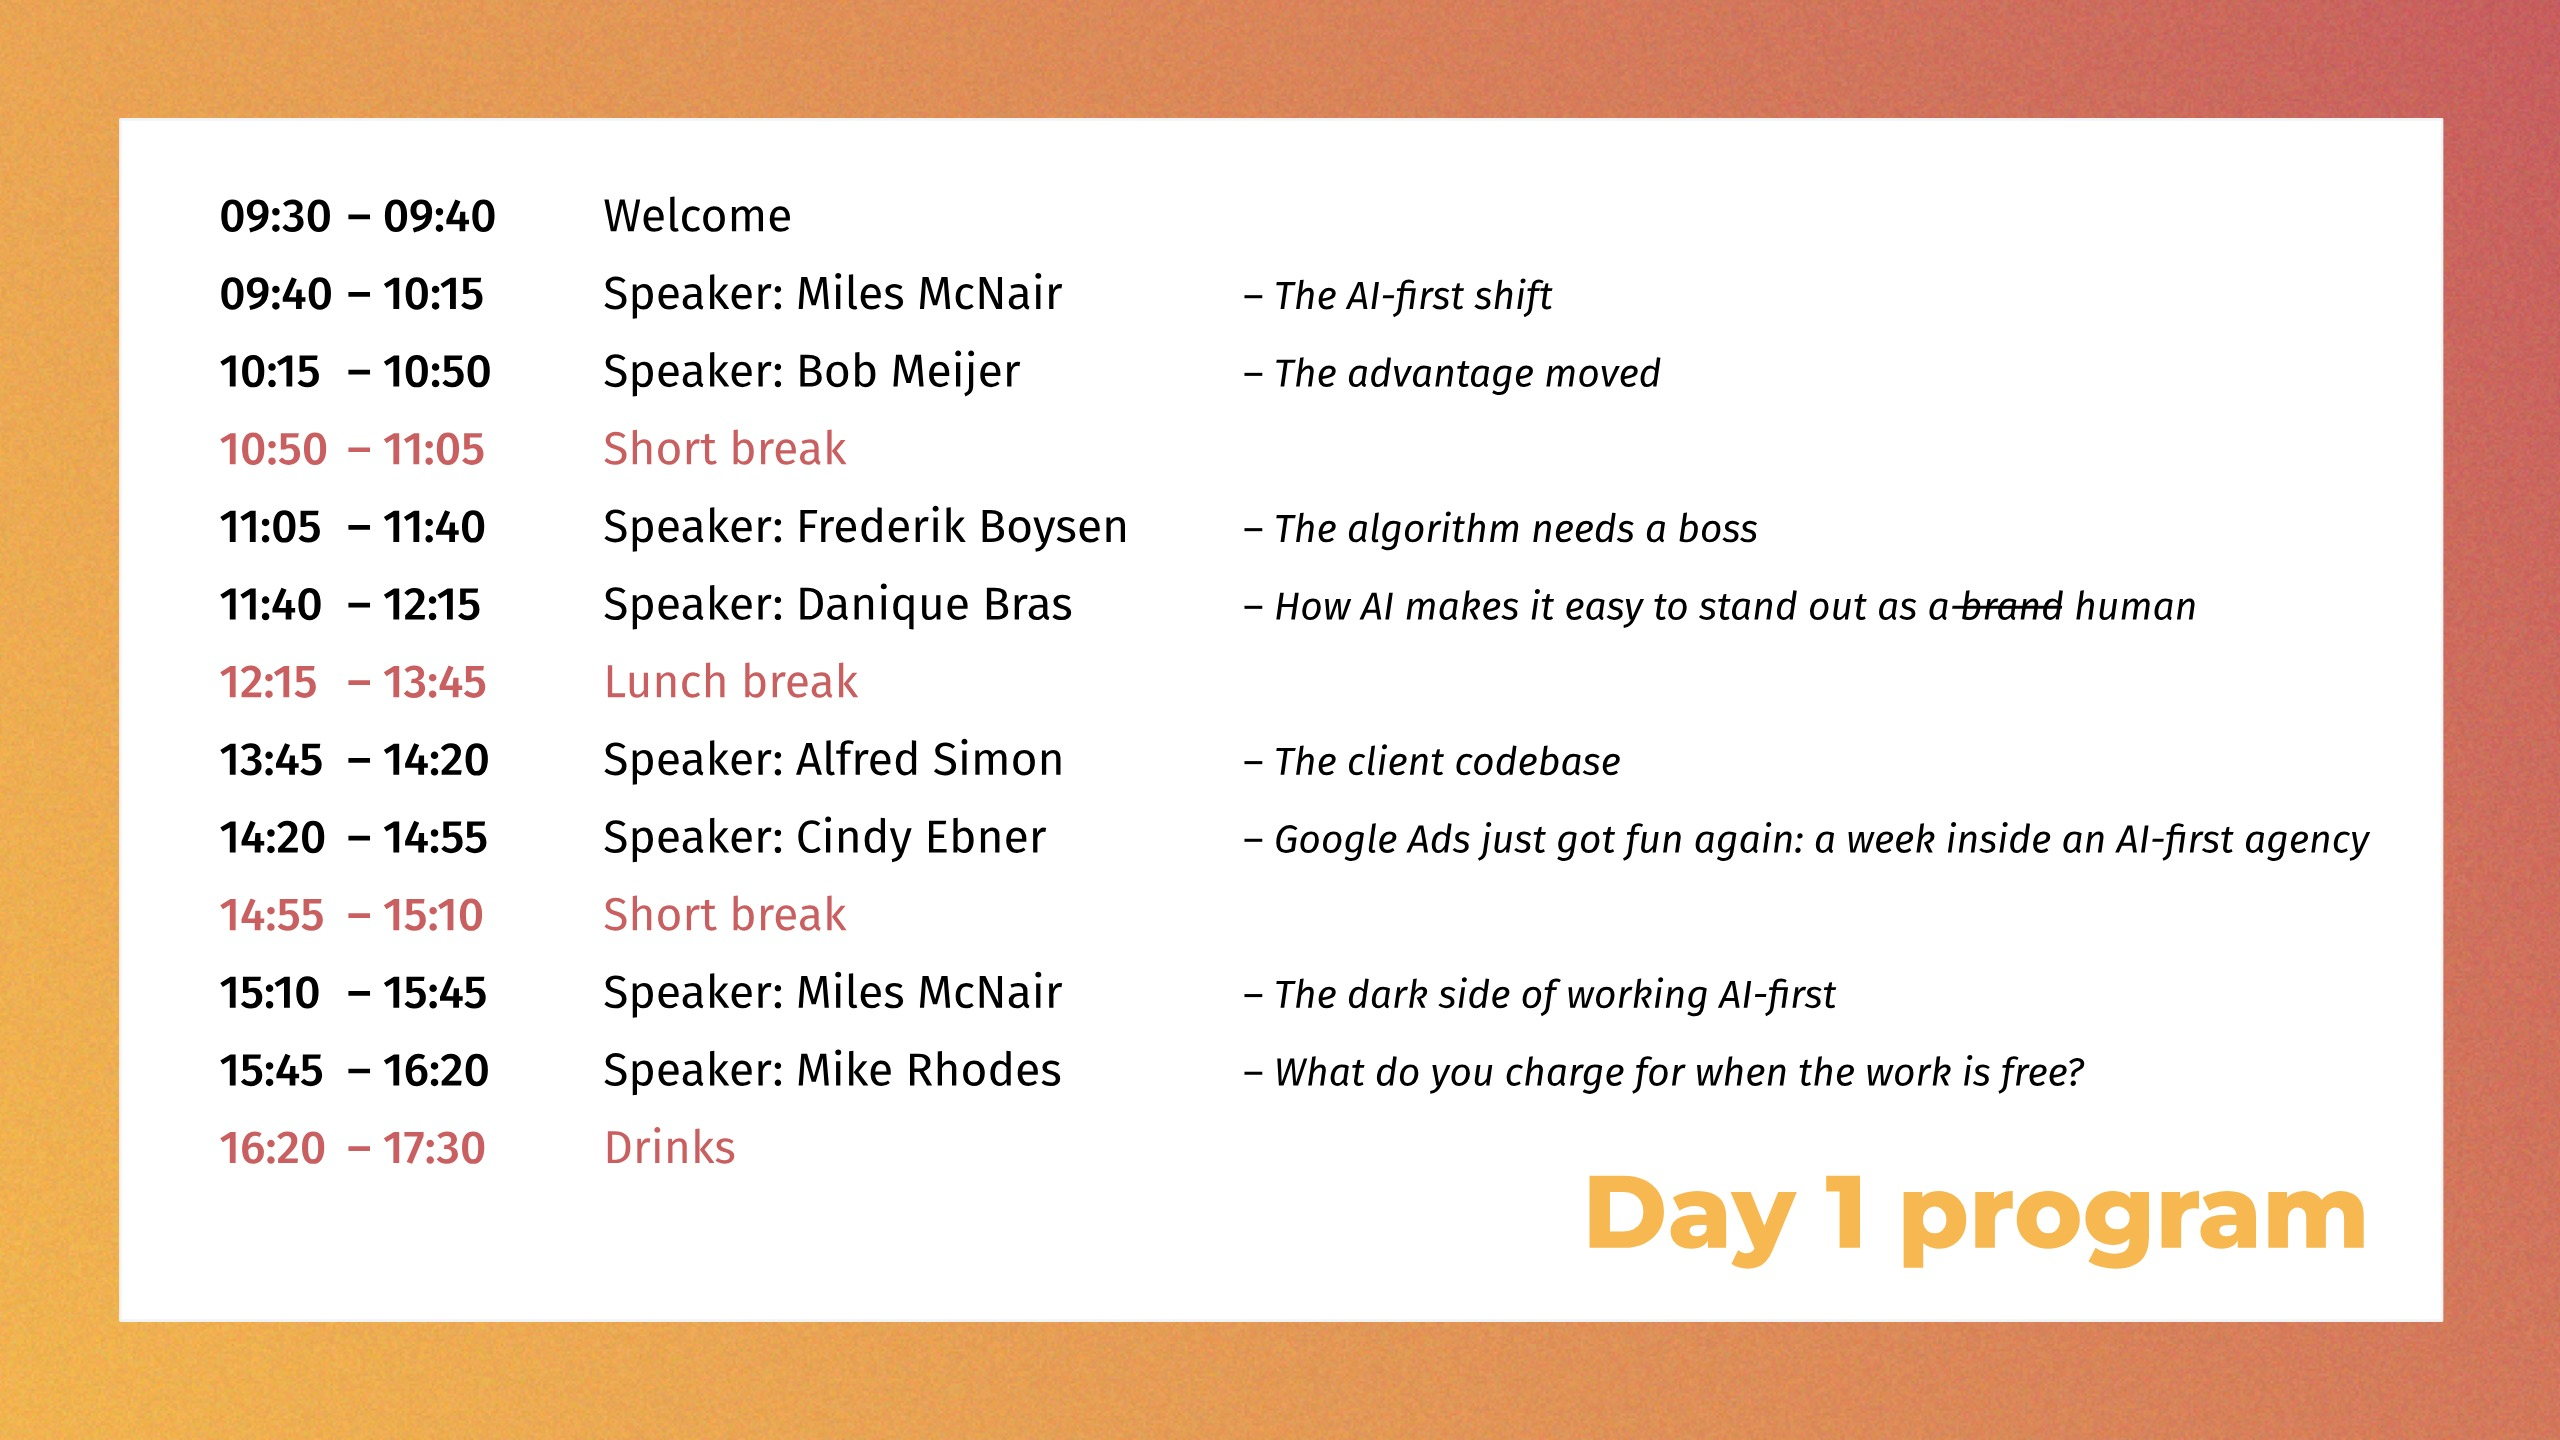
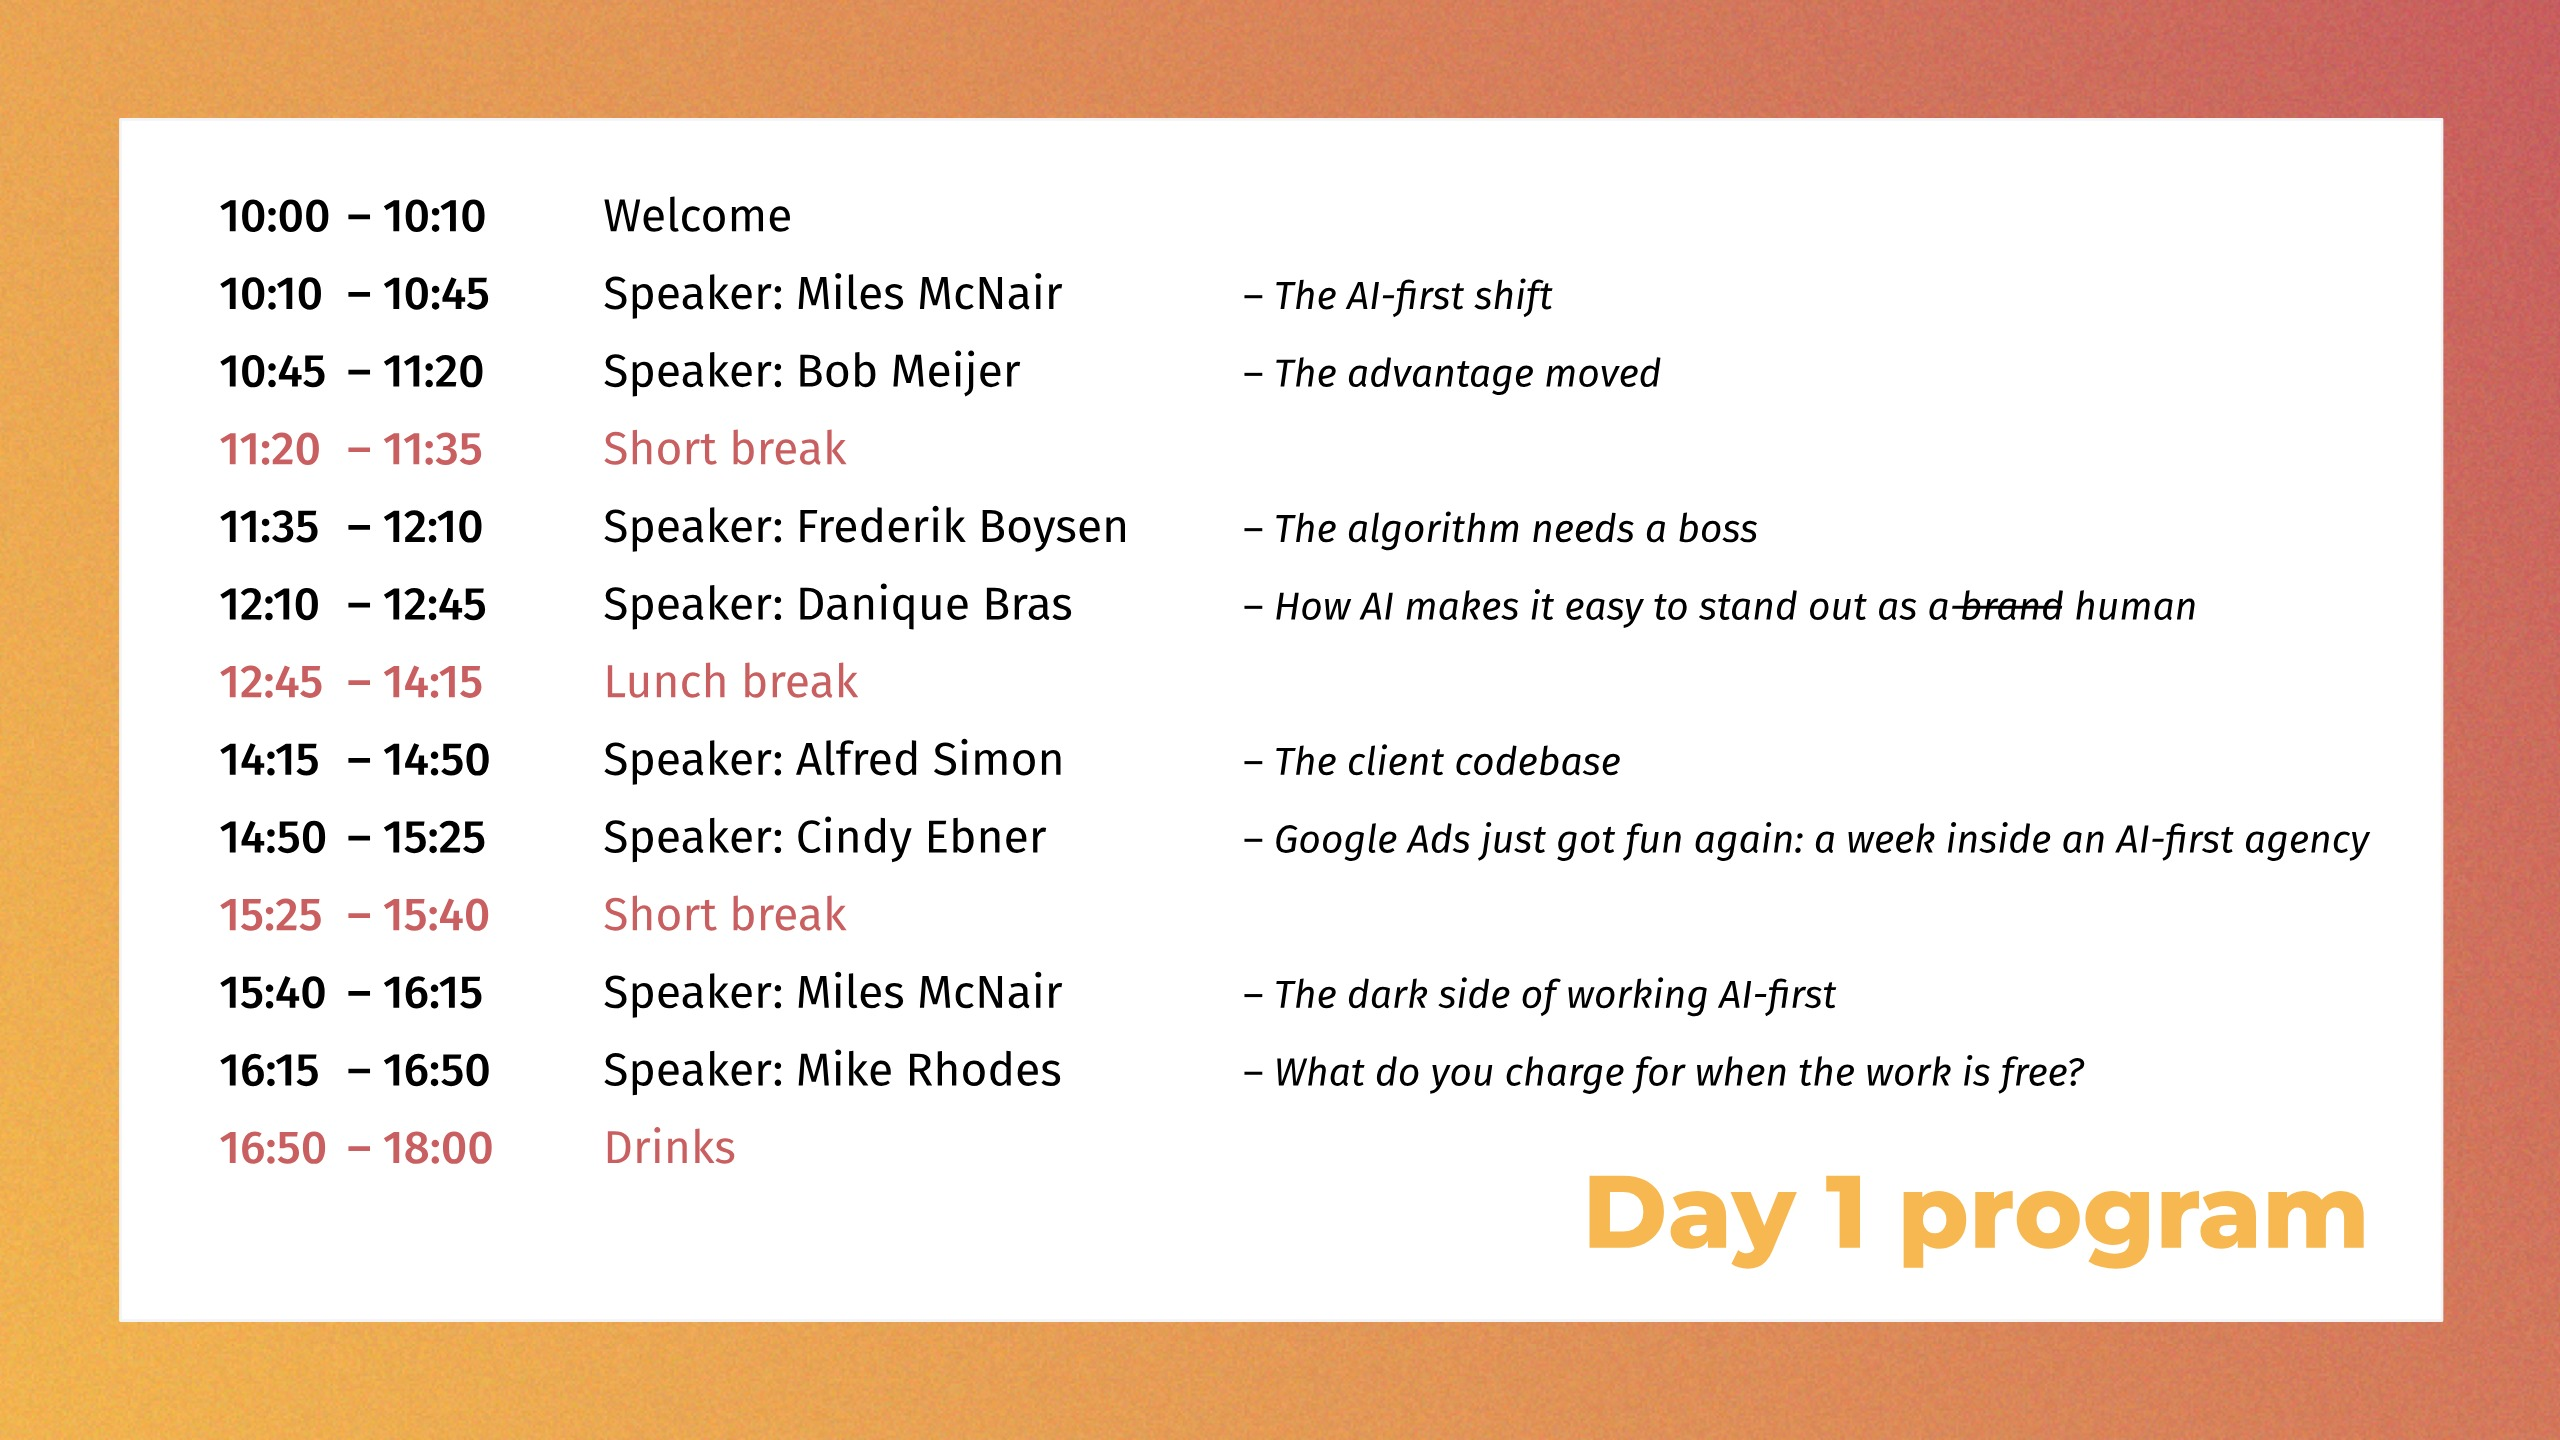
Stage build 2026-09-24 08:38

diff --git a/_runtime/manifest.js b/_runtime/manifest.js
@@ -1,11 +1,11 @@
 window.STAGE_MANIFEST = {
- "built": "2026-09-23 16:23",
+ "built": "2026-09-24 08:38",
  "blocks": [
   {
    "id": "block-1",
    "day": 1,
    "title": "Block 1 · Opening, CH1, CH2",
-   "window": "09:30-10:50",
+   "window": "10:00-11:20",
    "segments": [
     {
      "group": "Welcome · Sam Kellet",
@@ -832,19 +832,19 @@ window.STAGE_MANIFEST = {
     },
     {
      "group": "Break",
-     "label": "Back at 11:05",
-     "title": "Break · Back at 11:05",
+     "label": "Back at 11:35",
+     "title": "Break · Back at 11:35",
      "kind": "images",
      "timer": {
       "id": "Break",
-      "until": "11:05",
+      "until": "11:35",
       "start": true
      },
      "steps": [
       {
-       "src": "slides/breaks-short-break-back-at-11-05.jpg",
-       "label": "Back at 11:05",
-       "notes": "Thank you Bob! All right everyone, it’s time for our first 15 minute break. Grab some coffee and I’ll see you back here at 11:05. Remember, it’s a hard 15 minutes."
+       "src": "slides/breaks-short-break-back-at-11-35.jpg",
+       "label": "Back at 11:35",
+       "notes": "Thank you Bob! All right everyone, it’s time for our first 15 minute break. Grab some coffee and I’ll see you back here at 11:35. Remember, it’s a hard 15 minutes."
       }
      ]
     }
@@ -854,7 +854,7 @@ window.STAGE_MANIFEST = {
    "id": "block-2",
    "day": 1,
    "title": "Block 2 · CH3, CH4",
-   "window": "11:05-12:15",
+   "window": "11:35-12:45",
    "segments": [
     {
      "group": "CH3 · Frederik Boysen",
@@ -1277,19 +1277,19 @@ window.STAGE_MANIFEST = {
     },
     {
      "group": "Lunch",
-     "label": "Short break lunch",
-     "title": "Lunch · Short break lunch",
+     "label": "Short break lunch day 1",
+     "title": "Lunch · Short break lunch day 1",
      "kind": "images",
      "timer": {
       "id": "Lunch",
-      "until": "13:45",
+      "until": "14:15",
       "start": true
      },
      "steps": [
       {
-       "src": "slides/breaks-short-break-lunch.jpg",
-       "label": "Short break lunch",
-       "notes": "Thank you Danique! This morning was about where the value went; this afternoon shows the systems and the people that run it. But before we get there, it’s time to eat! Make your way over to the dining hall, where our friends from Casa de Marquez have prepared a feast; we’re talkin things like veal with a port reduction and tarragon. That sounds fancy as hell.\nThere are also vegetarian, vegan, and halal options, to accommodate all dietary preferences recorded in the app.\nThere’s seating in there, as well as in the lounges and in this room, so make a plate, have a great lunch, and we’ll see you back here at 13:45 sharp!"
+       "src": "slides/breaks-short-break-lunch-day-1.jpg",
+       "label": "Short break lunch day 1",
+       "notes": "Thank you Danique! This morning was about where the value went; this afternoon shows the systems and the people that run it. But before we get there, it’s time to eat! Make your way over to the dining hall, where our friends from Casa de Marquez have prepared a feast; we’re talkin things like veal with a port reduction and tarragon. That sounds fancy as hell.\nThere are also vegetarian, vegan, and halal options, to accommodate all dietary preferences recorded in the app.\nThere’s seating in there, as well as in the lounges and in this room, so make a plate, have a great lunch, and we’ll see you back here at 14:15 sharp!"
       }
      ]
     }
@@ -1299,7 +1299,7 @@ window.STAGE_MANIFEST = {
    "id": "block-3",
    "day": 1,
    "title": "Block 3 · CH5, CH6",
-   "window": "13:45-14:55",
+   "window": "14:15-15:25",
    "segments": [
     {
      "group": "CH5 · Alfred Simon",
@@ -2807,19 +2807,19 @@ window.STAGE_MANIFEST = {
     },
     {
      "group": "Break",
-     "label": "Back at 15:10",
-     "title": "Break · Back at 15:10",
+     "label": "Back at 15:40",
+     "title": "Break · Back at 15:40",
      "kind": "images",
      "timer": {
       "id": "Break",
-      "until": "15:10",
+      "until": "15:40",
       "start": true
      },
      "steps": [
       {
-       "src": "slides/breaks-short-break-back-at-15-10.jpg",
-       "label": "Back at 15:10",
-       "notes": "Thank you Cindy. Ladies and gentlemen, it’s time for our final break of the day. Unless you count the drinks, but that’s later. Grab some coffee and will see you back here at 15:10 sharp!"
+       "src": "slides/breaks-short-break-back-at-15-40.jpg",
+       "label": "Back at 15:40",
+       "notes": "Thank you Cindy. Ladies and gentlemen, it’s time for our final break of the day. Unless you count the drinks, but that’s later. Grab some coffee and will see you back here at 15:40 sharp!"
       }
      ]
     }
@@ -2829,7 +2829,7 @@ window.STAGE_MANIFEST = {
    "id": "block-4",
    "day": 1,
    "title": "Block 4 · CH7, CH8, drinks",
-   "window": "15:10-16:20",
+   "window": "15:40-16:50",
    "segments": [
     {
      "group": "CH7 · Miles McNair",
@@ -3706,7 +3706,7 @@ window.STAGE_MANIFEST = {
      "kind": "images",
      "timer": {
       "id": "Drinks",
-      "until": "17:30",
+      "until": "18:00",
       "start": true
      },
      "steps": [
